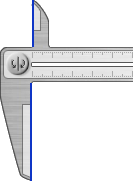
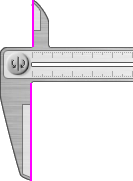
added color picker

Changed region(s): [[0.2105, 0.442, 0.2406, 1.0], [0.2406, 0.0, 0.2707, 0.2762]]

diff --git a/src/lib.cs b/src/lib.cs
@@ -4,7 +4,6 @@ using Gtk;
 using Gdk;
 using Cairo;
 using System.Drawing;
-
 using POINT = System.Drawing.Point;
 using RECT = System.Drawing.Rectangle;
 
@@ -38,10 +37,10 @@ namespace gcaliper
 			return new POINT ((int)Math.Round (x), (int)Math.Round (y));
 		}
 
-		public static POINT  rotatePoint(POINT p, POINT center,double angle)
+		public static POINT  rotatePoint (POINT p, POINT center, double angle)
 		{
-			double s = Math.Sin(angle);
-			double c = Math.Cos(angle);
+			double s = Math.Sin (angle);
+			double c = Math.Cos (angle);
 
 			// translate point back to origin:
 			p.X -= center.X;
@@ -52,8 +51,8 @@ namespace gcaliper
 			double ynew = p.X * s + p.Y * c;
 
 			// translate point back:
-			p.X = (int)Math.Round(xnew + center.X);
-			p.Y = (int)Math.Round(ynew + center.Y);
+			p.X = (int)Math.Round (xnew + center.X);
+			p.Y = (int)Math.Round (ynew + center.Y);
 
 			return p;
 		}
@@ -143,6 +142,21 @@ namespace gcaliper
 			throw new NotSupportedException ();
 		}
 
+		public unsafe static void setPixel (this ImageSurface buf, int x, int y, TColor c)
+		{
+
+			if (buf.Format == Format.Argb32) {
+				byte* pix = (byte*)(buf.DataPtr + y * buf.Stride + x * 4);
+				*(pix) = c.b;
+				*(pix + 1) = c.g;
+				*(pix + 2) = c.r;
+				*(pix + 3) = c.a;
+				return;
+			}
+
+			throw new NotSupportedException ();
+		}
+
 		public unsafe static void setPixel (this Pixbuf buf, int x, int y, TColor color)
 		{
 			byte* pix = (byte*)(buf.Pixels + y * buf.Rowstride + x * buf.NChannels);
@@ -172,7 +186,7 @@ namespace gcaliper
 			this.r = r;
 			this.g = g;
 			this.b = b;
-			this.a = 0;
+			this.a = 1;
 		}
 
 		public TColor (byte r, byte g, byte b, byte a)
@@ -181,6 +195,14 @@ namespace gcaliper
 			this.g = g;
 			this.b = b;
 			this.a = a;
+		}
+
+		public TColor (Gdk.Color c)
+		{
+			this.r = (byte)Math.Round (((double)byte.MaxValue / (double)ushort.MaxValue * (double)c.Red), 0);
+			this.g = (byte)Math.Round (((double)byte.MaxValue / (double)ushort.MaxValue * (double)c.Green), 0);
+			this.b = (byte)Math.Round (((double)byte.MaxValue / (double)ushort.MaxValue * (double)c.Blue), 0);
+			this.a = 255;
 		}
 
 		public unsafe static TColor fromArgbPointer (IntPtr ptr)
@@ -232,6 +254,10 @@ namespace gcaliper
 
 	public class TPart
 	{
+		public virtual void applyContrast (TColor c)
+		{
+		}
+
 		public ImageSurface image;
 		public bool rotate;
 		//public bool drawNonrotated=false;
@@ -243,10 +269,35 @@ namespace gcaliper
 
 	public class TImagePart : TPart
 	{
+		public override void applyContrast (TColor color)
+		{
+			reloadImage ();
+
+			for (var y = 0; y < image.Height; y++) {
+				for (var x = 0; x < image.Width; x++) {
+					var c = image.getPixel (x, y);
+					if (c.r == 255 && c.g == 0 && c.b == 255 && c.a == 255) {
+						image.setPixel (x, y, color);
+					}
+				}
+			}
+		}
+
+		public string fileName;
+
 		public TImagePart (string file)
 		{
-			image = new ImageSurface (file);
+			this.fileName = file;
+			reloadImage ();
 			rect = new System.Drawing.Rectangle (0, 0, image.Width, image.Height);
+		}
+
+		public void reloadImage ()
+		{
+			if (image != null)
+				image.Dispose ();
+
+			image = new ImageSurface (fileName);
 		}
 	}
 
@@ -268,13 +319,11 @@ namespace gcaliper
 
 	public class TCaliperPart3 : TImagePart
 	{
-
 		public TCaliperPart3 () : base ("../../template/caliper/3.png")
 		{
 			rotate = false;
 			//drawNonrotated = true;
 		}
-
 	}
 }
 

diff --git a/src/DrawGroup.cs b/src/DrawGroup.cs
@@ -13,12 +13,54 @@ namespace gcaliper
 		public Pixmap maskMap;
 		public ImageSurface image;
 		public TPartList parts = new TPartList ();
+		protected Menu menu;
+		private Style originalStyle;
+		protected bool needRedraw = true;
 
 		public TDrawGroup () : base (Gtk.WindowType.Toplevel)
 		{
+			originalStyle = this.Style.Copy ();
 			Decorated = false;
 			Events = EventMask.AllEventsMask;
+
+			menu = new Menu ();
+			var quitItem = new MenuItem ("Quit");
+			menu.Add(quitItem);
+			quitItem.ButtonReleaseEvent += (o, e) => {
+				if(e.Event.Button==1)
+					Application.Quit();
+			};
+
+			var color1 = new MenuItem ("Color");
+			menu.Add(color1);
+			color1.ButtonReleaseEvent += (o, e) => {
+				if(e.Event.Button==1)
+				{
+					using(var chooser=new ColorSelectionDialog("change color")){
+						//chooser.TransientFor=this;
+						chooser.Style=originalStyle;
+
+						if(chooser.Run()==(int)ResponseType.Ok){
+							foreach(var part in parts){
+								part.applyContrast(new TColor(chooser.ColorSelection.CurrentColor));
+							}
+							invalidateImage();
+						}
+						chooser.Hide();
+					}
+				}
+			};
+
 			setWindowShape ();
+		}
+
+		public void invalidateImage ()
+		{
+			if (needRedraw)
+				return;
+
+			needRedraw = true;
+			QueueDraw ();
 		}
 
 		protected void OnDeleteEvent (object sender, DeleteEventArgs a)
@@ -323,15 +365,6 @@ namespace gcaliper
 			return base.OnMotionNotifyEvent (evnt);
 		}
 
-		public void invalidateImage ()
-		{
-			if (needRedraw)
-				return;
-
-			needRedraw = true;
-			QueueDraw ();
-		}
-
 		protected override bool OnButtonPressEvent (EventButton evnt)
 		{
 			mousePos = new POINT ((int)evnt.X, (int)evnt.Y);
@@ -354,6 +387,10 @@ namespace gcaliper
 				} else if (part1.rect.Contains (mouseImagePos)) {
 					moving = true;
 				}
+			}
+			if (evnt.Button == 3) {
+				this.menu.ShowAll ();
+				this.menu.Popup ();
 			}
 
 			return base.OnButtonPressEvent (evnt);
@@ -452,8 +489,6 @@ namespace gcaliper
 			}
 
 		}
-
-		bool needRedraw = true;
 
 		protected override bool OnExposeEvent (EventExpose evnt)
 		{
